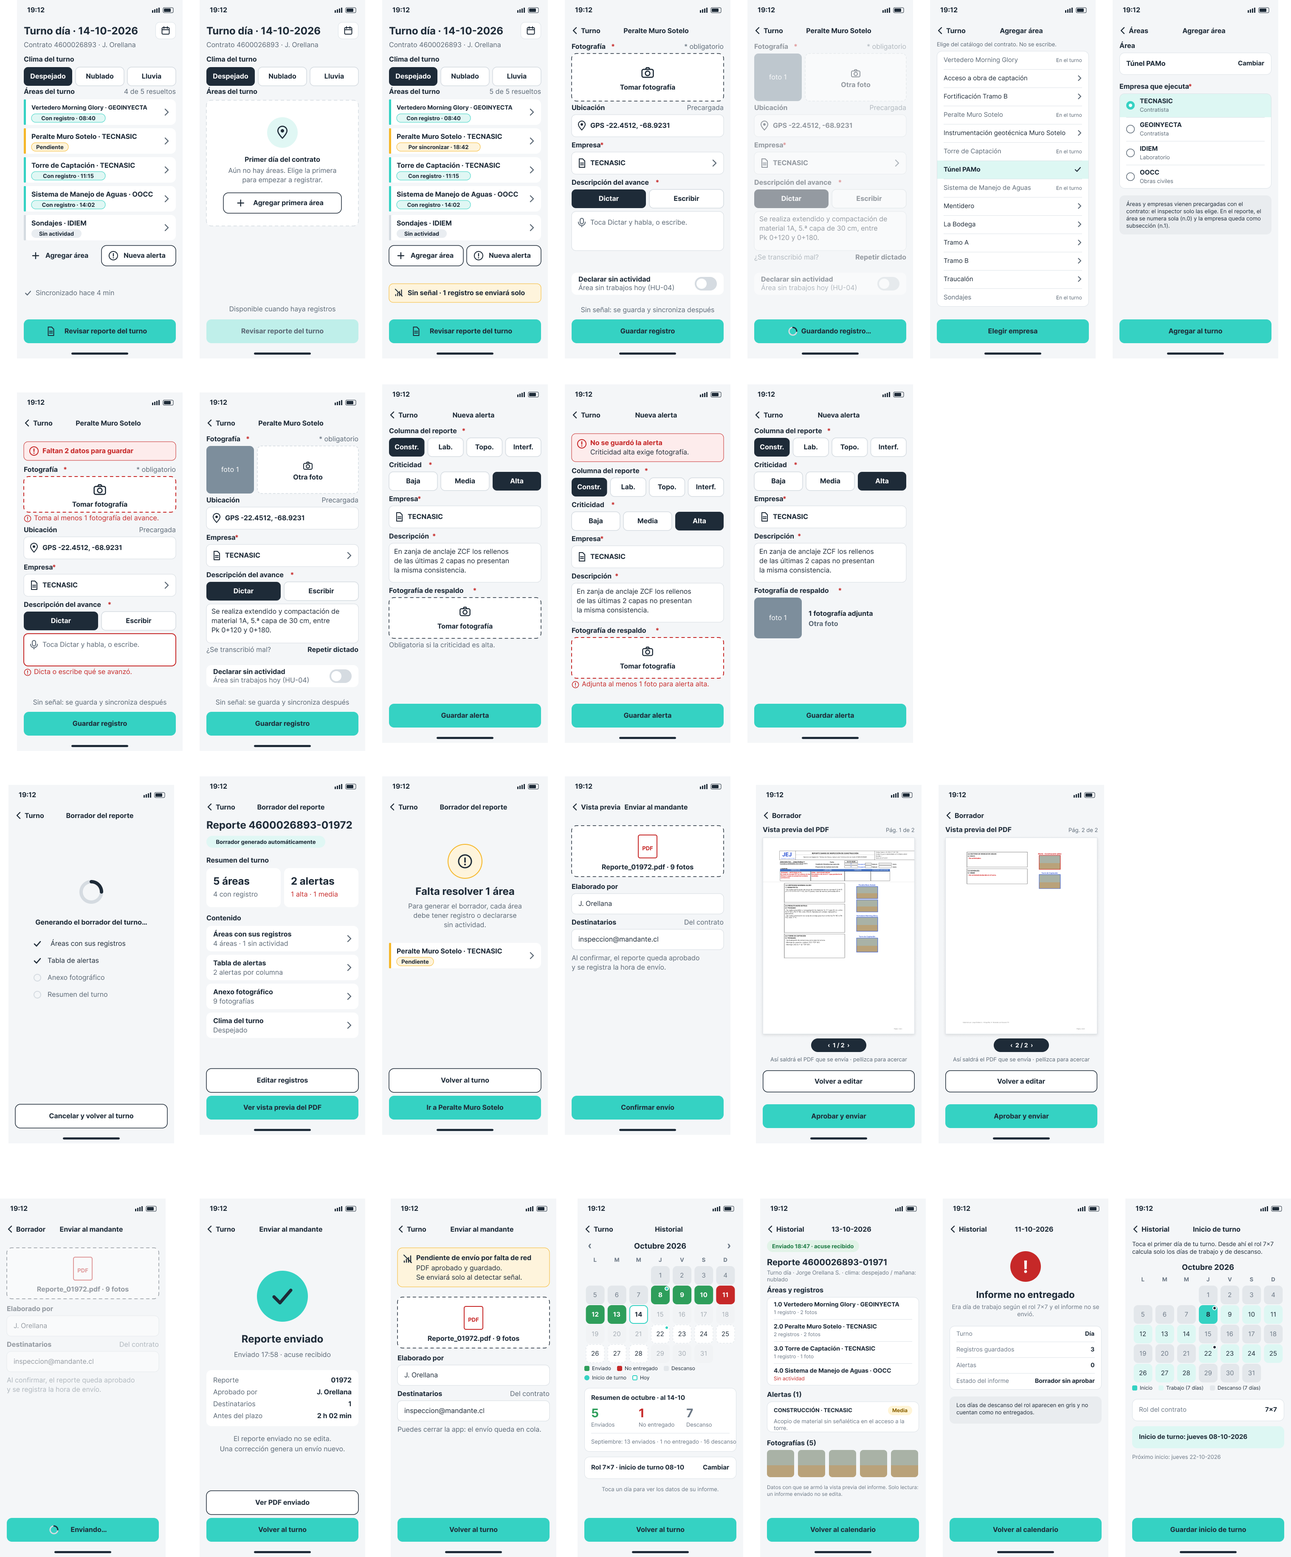
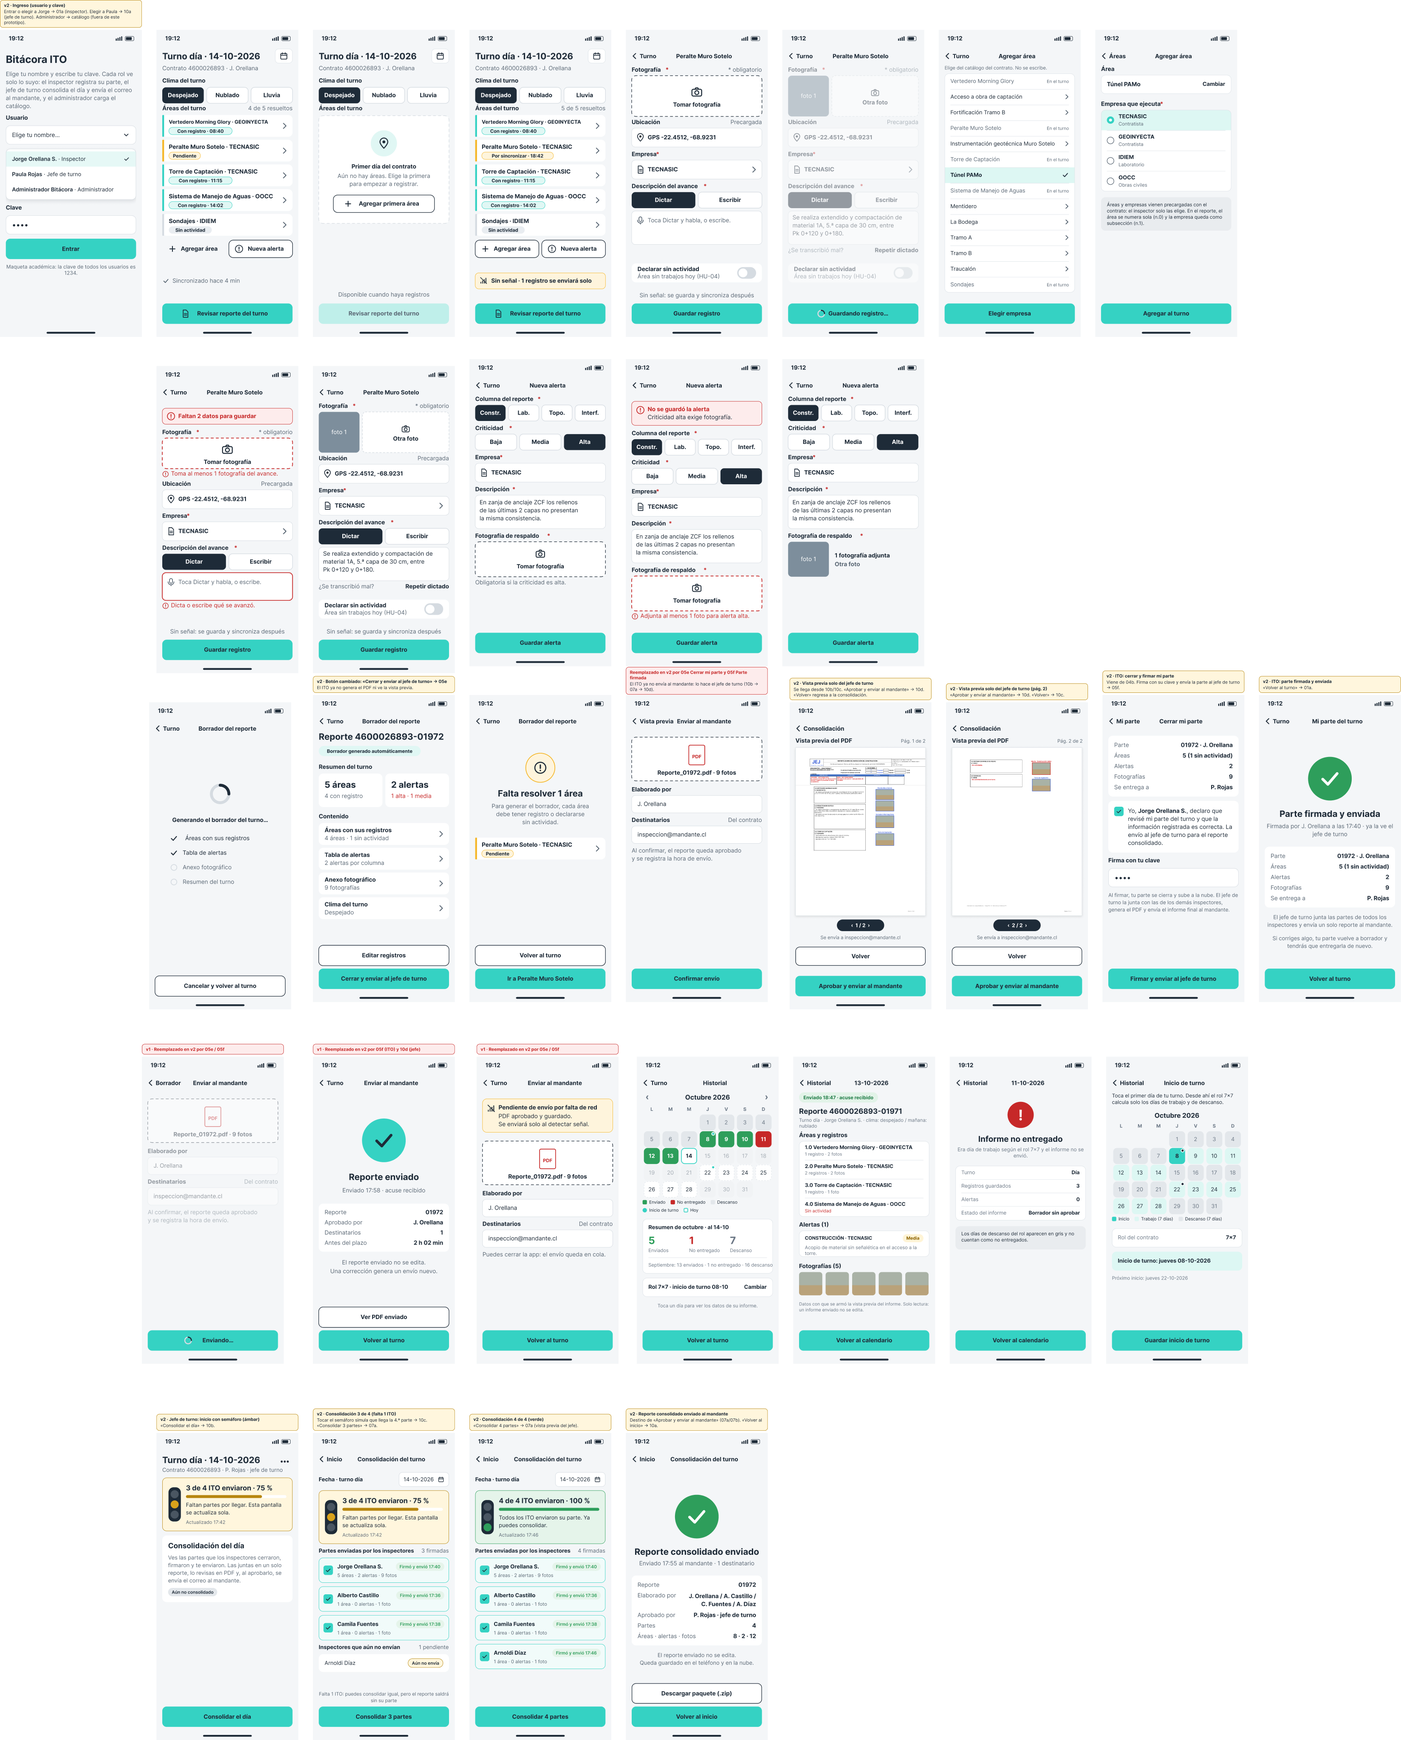
Semana 8: documentación y prototipo de Figma de la versión 2
- README y docs/README: estado de la semana 8 (hito entregado).
- Historias HU-11 a HU-15: ingreso con clave, firma del inspector, semáforo, consolidación y catálogo desde Excel.
- Estructura de datos: cambios de la semana 8 (entregado_en, firma, consolidado, catalogo_version) y reglas.
- Prototipo: sección 6 con las pantallas y decisiones; GUIA-FIGMA con los marcos nuevos 09a, 05e, 05f y 10a-10d.
- Vista general del prototipo actualizada.

diff --git a/docs/historias.md b/docs/historias.md
@@ -38,8 +38,13 @@ Las historias siguen la secuencia real de uso del turno, de la apertura del día
 | HU-04 | Declarar un frente sin actividad | Inspector | Alta |
 | HU-05 | Elegir un área del catálogo del contrato *(v2)* | Inspector | Media |
 | HU-06 | Revisar el borrador del reporte del turno | Inspector | Alta |
-| HU-09 | Previsualizar el PDF antes de aprobarlo *(nueva, v2)* | Inspector | Alta |
-| HU-07 | Emitir el reporte al mandante | Inspector | Alta |
+| HU-09 | Previsualizar el PDF antes de aprobarlo *(v2; desde la semana 8 lo hace el jefe de turno)* | Jefe de turno | Alta |
+| HU-07 | Emitir el reporte al mandante *(desde la semana 8 lo emite el jefe de turno, ver HU-14)* | Jefe de turno | Alta |
+| HU-11 | Ingresar con mi usuario y clave *(nueva, semana 8)* | Todos | Alta |
+| HU-12 | Cerrar y firmar mi parte del turno *(nueva, semana 8)* | Inspector | Alta |
+| HU-13 | Saber cuántos inspectores ya enviaron (semáforo) *(nueva, semana 8)* | Jefe de turno | Alta |
+| HU-14 | Consolidar las partes y enviar un solo reporte *(nueva, semana 8)* | Jefe de turno | Alta |
+| HU-15 | Mantener el catálogo del contrato desde un Excel *(nueva, semana 8)* | Administrador | Media |
 | HU-10 | Consultar mi historial en el calendario *(nueva, v2)* | Inspector | Media |
 | HU-08 | Consultar reportes anteriores | Jefatura | Baja |
 
@@ -414,3 +419,127 @@ Las historias siguen la secuencia real de uso del turno, de la apertura del día
 - **Dado** que ningún reporte coincide con la búsqueda,
 - **cuando** se ejecuta la consulta,
 - **entonces** el sistema lo indica y mantiene los filtros para corregirlos.
+
+---
+
+## Semana 8 · Consolidación por el jefe de turno
+
+Pedido del profesor guía: un turno tiene varios inspectores y el mandante recibe **un solo reporte**, que envía el jefe de turno. Tras probar la primera versión, el equipo pidió además que el inspector **firme** su parte, que el jefe vea **solo lo firmado**, un **semáforo** de avance, ingreso con clave y solo turno de día. Las historias HU-07 y HU-09 pasan al jefe de turno.
+
+## HU-11 · Ingresar con mi usuario y clave *(nueva, semana 8)*
+
+| | |
+|---|---|
+| **Rol** | Inspector, jefe de turno o administrador |
+| **Acción** | Elegir mi nombre de la lista de usuarios del contrato y escribir mi clave |
+| **Beneficio** | Ver solo lo que me corresponde y que lo registrado quede a mi nombre |
+
+**Escenario principal**
+
+- **Dado** que el administrador me cargó en el catálogo del contrato,
+- **cuando** elijo mi nombre en la lista, escribo mi clave y toco «Entrar»,
+- **entonces** la app abre la pantalla de mi rol: el inspector su turno, el jefe la consolidación y el administrador el catálogo, y no me deja abrir las pantallas de otro rol.
+
+**Escenario alternativo · clave incorrecta**
+
+- **Dado** que escribí mal la clave,
+- **cuando** toco «Entrar»,
+- **entonces** la app avisa «La clave no es correcta» y no entra.
+
+**Escenario alternativo · usuario recién agregado**
+
+- **Dado** que el administrador me agregó hoy en el Excel,
+- **cuando** abro la app con señal,
+- **entonces** la pantalla de ingreso descarga el catálogo nuevo y mi nombre aparece en la lista.
+
+> En la maqueta la clave es la misma para todos (1234). En producción se usaría Supabase Auth.
+
+## HU-12 · Cerrar y firmar mi parte del turno *(nueva, semana 8)*
+
+| | |
+|---|---|
+| **Rol** | Inspector de terreno |
+| **Acción** | Revisar mi parte, cerrarla y firmarla con mi clave para enviarla al jefe de turno |
+| **Beneficio** | Dejar constancia de que la información es mía y está correcta, sin tener que armar el reporte final |
+
+**Escenario principal**
+
+- **Dado** que todas mis áreas tienen registro o están declaradas sin actividad,
+- **cuando** toco «Cerrar y enviar al jefe de turno», marco la declaración y firmo con mi clave,
+- **entonces** mi parte queda firmada con mi nombre y la hora, sube a la nube y el jefe de turno la ve.
+
+**Escenario alternativo · sin firma**
+
+- **Dado** que registré pero no firmé,
+- **cuando** el jefe de turno revisa las partes,
+- **entonces** no ve ninguno de mis datos: solo que «Aún no envía».
+
+**Escenario alternativo · sin señal**
+
+- **Dado** que firmo sin señal,
+- **cuando** vuelve la conexión,
+- **entonces** la parte firmada se sube sola.
+
+## HU-13 · Saber cuántos inspectores ya enviaron *(nueva, semana 8)*
+
+| | |
+|---|---|
+| **Rol** | Jefe de turno |
+| **Acción** | Ver un semáforo con cuántos inspectores del día ya firmaron su parte |
+| **Beneficio** | No tener que revisar a cada rato si llegó todo, y consolidar en el momento justo |
+
+**Escenario principal**
+
+- **Dado** que hoy trabajan 4 inspectores y 3 ya firmaron,
+- **cuando** abro mi inicio o la consolidación,
+- **entonces** veo «3 de 4 ITO enviaron · 75 %» en ámbar, y la pantalla se actualiza sola.
+
+**Escenario · todos enviaron**
+
+- **Dado** que firma el último inspector,
+- **cuando** pasan a lo más 30 segundos,
+- **entonces** el semáforo pasa a verde (100 %), el teléfono vibra y la app indica que ya puedo consolidar.
+
+> El semáforo está en rojo si nadie ha enviado. Los inspectores en descanso según su rol 7x7 no cuentan.
+
+## HU-14 · Consolidar las partes y enviar un solo reporte *(nueva, semana 8)*
+
+| | |
+|---|---|
+| **Rol** | Jefe de turno |
+| **Acción** | Juntar las partes firmadas en un reporte, revisar el PDF y enviarlo al mandante |
+| **Beneficio** | Que el mandante reciba un único correo por turno con el trabajo de todos |
+
+**Escenario principal**
+
+- **Dado** que el semáforo está en verde,
+- **cuando** toco «Consolidar», reviso el clima y la vista previa del PDF, y toco «Aprobar y enviar al mandante»,
+- **entonces** el reporte junta las áreas de todos (1.0 el área, 1.1 la empresa), las alertas y «Elaborado por» con todos los inspectores, toma el correlativo siguiente del contrato y sale **un solo correo** a los destinatarios del contrato.
+
+**Escenario alternativo · falta un inspector**
+
+- **Dado** que el semáforo está en ámbar,
+- **cuando** toco «Consolidar»,
+- **entonces** la app advierte que el reporte saldrá sin las partes que faltan, y deja seguir si el jefe lo decide.
+
+## HU-15 · Mantener el catálogo del contrato desde un Excel *(nueva, semana 8)*
+
+| | |
+|---|---|
+| **Rol** | Administrador |
+| **Acción** | Llenar una plantilla Excel con el contrato, las áreas, las empresas, los usuarios y los destinatarios, y publicarla |
+| **Beneficio** | Cambiar el catálogo sin tocar el código, y que todos los teléfonos lo reciban |
+
+**Escenario principal**
+
+- **Dado** que descargué la plantilla y la llené,
+- **cuando** la cargo en la app y toco «Publicar catálogo»,
+- **entonces** la app valida el archivo, muestra qué cambia y publica una versión nueva. Los teléfonos la reciben al abrir la app.
+
+**Escenario alternativo · alguien deja de trabajar**
+
+- **Dado** que un inspector ya no está en el contrato,
+- **cuando** lo marco «Activo: No» y publico,
+- **entonces** queda inactivo, sin borrar lo que registró.
+
+> Publicar el Excel nunca hace retroceder el correlativo de los reportes ya enviados. El correo de los usuarios es opcional.

diff --git a/docs/prototipo.md b/docs/prototipo.md
@@ -207,3 +207,37 @@ Los estados también están en las otras pantallas donde importan: P1 vacío (01
 - Ícono de calendario arriba a la derecha en P1, que abre **08a**: el calendario del mes con cada día en verde (enviado), rojo (no entregado) o gris (descanso), más el resumen del mes y el del mes anterior.
 - La diferencia entre descanso y no entregado la da el **rol 7x7**. El inspector marca el **primer día de su turno** en **08d** y desde ahí se calculan los ciclos. Cada inicio de turno queda marcado con un punto en el calendario.
 - Al tocar un día enviado, **08b** muestra los datos con que se armó ese informe (los mismos de la vista previa), no el PDF. Al tocar un día rojo, **08c** muestra por qué cuenta como no entregado.
+
+## 6. Cambios de la semana 8
+
+**Pedido del profesor guía:** consolidar los reportes de varios inspectores y que el jefe de turno sea quien envía un solo reporte al mandante. Tras probar la primera versión, el equipo pidió además que el inspector **firme** su parte, que el jefe vea **solo lo firmado**, un **semáforo** de avance, ingreso con clave y solo turno de día. Los marcos nuevos ya están en el archivo de Figma.
+
+| Pantalla | Rol | Qué hace | Historia |
+|---|---|---|---|
+| 09a Ingreso | Todos | Lista de usuarios del contrato y clave. Cada rol abre solo sus pantallas | HU-11 |
+| 05e Cerrar mi parte (firma) | Inspector | Resumen de la parte, declaración y firma con la clave. **Reemplaza** la vista previa del PDF y el envío del inspector | HU-12 |
+| 05f Parte firmada y enviada | Inspector | Confirmación con nombre y hora de la firma | HU-12 |
+| 10a Inicio del jefe | Jefe de turno | Semáforo «N de M ITO enviaron» y acceso a «Consolidar el día» | HU-13 |
+| 10b / 10c Consolidación del día (ámbar y verde) | Jefe de turno | Semáforo, partes firmadas e inspectores que aún no envían. Consolida | HU-13, HU-14 |
+| Vista previa del PDF (07a/07b) | Jefe de turno | Ahora es del jefe: «Aprobar y enviar al mandante» | HU-09, HU-14 |
+| 10d Reporte consolidado enviado | Jefe de turno | Confirmación del único correo del turno | HU-14 |
+| Catálogo del contrato *(solo en la app)* | Administrador | Plantilla Excel: descargar, cargar, revisar cambios y publicar | HU-15 |
+
+**Flujo nuevo:** Ingreso → (inspector) turno → registrar → borrador → **Cerrar y enviar al jefe de turno** → firma → parte enviada. En paralelo: (jefe) inicio con semáforo → consolidación → **Consolidar** → revisión → vista previa del PDF → **Aprobar y enviar al mandante**.
+
+**Decisiones de la semana 8**
+
+- **El inspector ya no genera PDF.** El informe final es solo del jefe de turno. Así se evitan PDF parciales que nadie usa y el mandante recibe un solo documento.
+- **Firmar con la clave** deja constancia de quién valida la información, sin agregar otra contraseña. En producción sería la cuenta de Supabase Auth.
+- **El jefe no ve partes sin firmar**, aunque ya estén respaldadas en la nube. Así se respeta que el inspector decide cuándo su información está lista.
+- **Semáforo** en vez de una lista para revisar a mano: rojo, ámbar o verde, con actualización automática cada 30 segundos.
+- **Solo turno de día**, como en el contrato real del caso.
+
+**Validación:** un set de pruebas automáticas con datos inventados recorre todo el flujo:
+
+1. El administrador publica el Excel.
+2. Tres inspectores firman y uno no.
+3. El semáforo pasa de ámbar a verde.
+4. El jefe consolida y se envía el correo real.
+
+Resultado: 30 de 30 comprobaciones bien. Las pruebas encontraron 4 errores que se corrigieron antes de publicar.

diff --git a/docs/01-estructura-datos.md b/docs/01-estructura-datos.md
@@ -291,3 +291,24 @@ Los cambios que introdujo esa segunda etapa:
 | El reporte pasa a `generado` con la vista previa y a `aprobado` solo desde ella (regla 9) | Observación del profesor guía: el inspector debe revisar el PDF antes de enviarlo |
 | Se agregó `rol_turno` (7x7 y primer día de turno) | El historial debe distinguir los días de descanso de los informes no entregados |
 
+## 10. Cambios de la semana 8 (consolidación por el jefe de turno)
+
+Migración `supabase/migrations/0002_consolidacion_y_catalogo.sql`. Solo agrega: no borra ni cambia columnas existentes.
+
+| Cambio | Para qué |
+|---|---|
+| `usuario.rol`: `inspector`, `jefatura` (jefe de turno) o `admin` | El rol define qué pantallas ve cada persona al ingresar. |
+| `usuario.contrato_id` | Cada usuario pertenece al catálogo de un contrato. El correo del usuario es opcional. |
+| `reporte.entregado_en` | Hora en que el inspector **firmó y envió** su parte al jefe de turno. Si está vacío, el jefe no ve esa parte. |
+| `reporte.aprobado_por` y `reporte.hora_aprobacion` | Firma del inspector: quién firmó su parte y a qué hora. |
+| Tabla `consolidado` | El reporte único del día: contrato, fecha, turno, correlativo, partes incluidas, «elaborado por», ruta del PDF y estado (`borrador`, `generado`, `aprobado`, `enviado`). Lo crea el jefe de turno. |
+| Tabla `catalogo_version` | Cada publicación del Excel del administrador: número de versión, quién la cargó y el resumen de cambios. Los teléfonos comparan su versión con esta. |
+
+**Reglas nuevas**
+
+1. Hay un reporte por inspector, contrato y día. Si dos inspectores comparten teléfono, cada uno tiene el suyo.
+2. El jefe de turno solo lee partes con `entregado_en` lleno: lo no firmado no sale del teléfono hacia su pantalla. Igual se respalda en la nube.
+3. El semáforo cuenta a los inspectores activos del contrato que trabajan ese día según su `rol_turno` (7x7) y cuántos de ellos firmaron.
+4. El correlativo del consolidado es `contrato.ultimo_correlativo + 1`. Nunca retrocede: si el administrador publica un Excel con un número menor, se conserva el de la nube.
+5. Solo turno de día.
+6. Publicar el catálogo no borra nada. Lo que ya no va queda como no vigente o inactivo.

diff --git a/README.md b/README.md
@@ -35,13 +35,15 @@ El tipo de solución dominante es la **automatización**, sostenida por una capa
 
 ## Estado actual
 
-**Semana 6: prototipo navegable v2.** El prototipo incorpora las dos observaciones del profesor guía:
+**Semana 8: consolidación por el jefe de turno (versión 2, aprobada y publicada en Vercel).** Pedido del profesor guía: varios inspectores por turno y un solo reporte al mandante, enviado por el jefe de turno.
 
-- las áreas se eligen de una lista y el inspector no las escribe;
-- el PDF se previsualiza antes de aprobarlo y enviarlo.
+- Cada persona entra con su nombre y clave, y solo ve lo de su rol: inspector, jefe de turno o administrador.
+- El inspector registra en terreno, **cierra su parte y la firma**. No genera PDF.
+- El jefe de turno ve solo las partes firmadas y sigue un **semáforo** («3 de 4 ITO enviaron»). Con el semáforo en verde consolida, genera el PDF y envía **un solo correo** al mandante.
+- El administrador mantiene el catálogo del contrato (áreas, empresas, usuarios y destinatarios) desde una **plantilla Excel**.
+- Solo turno de día. El detalle está en [docs/prototipo.md](docs/prototipo.md#6-cambios-de-la-semana-8) y las historias en [docs/historias.md](docs/historias.md).
 
-Además suma un **Historial** con calendario y rol de turnos 7x7. El detalle está en [docs/prototipo.md](docs/prototipo.md#5-cambios-de-la-versión-2). El ambiente de desarrollo quedó configurado en la semana 3. Todavía no hay código de aplicación.
-
+La aplicación está publicada en Vercel y se genera también como APK para Android.
 | Hito | Semana | Estado |
 |---|---|---|
 | Propuesta de valor, alcance, usuarios (Avance 1) | 1 | Entregado |
@@ -51,7 +53,7 @@ Además suma un **Historial** con calendario y rol de turnos 7x7. El detalle est
 | Prototipo navegable (Avance 5) | 5 | Entregado |
 | Prototipo v2: observaciones del profesor e Historial | 6 | Entregado |
 | Análisis ético, de sostenibilidad e impacto | 7 | Entregado |
-| PoC del flujo principal | 8 | Pendiente |
+| Consolidación por el jefe de turno, firma del inspector y semáforo (PoC del flujo principal) | 8 | Entregado |
 | MVP validado con inspectores | 12 | Pendiente |
 
 ## Stack tecnológico

diff --git a/GUIA-FIGMA.md b/GUIA-FIGMA.md
@@ -148,3 +148,26 @@ El apunte pide que los estados estén «señalados en la anotación». Al lado d
 - [ ] Mapa de navegación y registro de decisiones en `docs/prototipo.md`
 - [ ] `README.md` enlaza a `docs/prototipo.md`
 - [ ] Enlace de Figma pegado y abierto en una ventana privada para confirmar que se ve sin iniciar sesión
+
+## Semana 8 · versión 2 (ya aplicada en Figma)
+
+Siete marcos nuevos y tres modificados. No se borró ningún marco: los que quedaron obsoletos llevan encima una nota «Reemplazado en v2 por…». Las notas amarillas «v2 · …» marcan lo nuevo.
+
+| Marco | Qué muestra | Lleva a |
+|---|---|---|
+| **09a Ingreso · usuario y clave** | Lista de usuarios con su rol, clave y «Entrar» | Inspector → 01a · Jefe → 10a |
+| **04b Borrador** *(modificado)* | El botón ahora dice «Cerrar y enviar al jefe de turno» | 05e |
+| **05e Cerrar mi parte · firma** | Resumen de la parte, declaración y «Firma con tu clave» | «Firmar y enviar» → 05f · volver → 04b |
+| **05f Parte firmada y enviada** | Confirmación con nombre y hora | 01a |
+| **10a Inicio jefe de turno · semáforo ámbar** | «3 de 4 ITO enviaron · 75 %» y «Consolidar el día» | 10b |
+| **10b Consolidación · 3 de 4 ámbar** | Partes firmadas, «Aún no envía» y aviso de parte faltante | «Consolidar 3 partes» → 07a · tocar el semáforo → 10c (simula que llega la cuarta) |
+| **10c Consolidación · 4 de 4 verde** | Semáforo en verde, todas las partes | «Consolidar 4 partes» → 07a |
+| **07a / 07b Vista previa del PDF** *(modificados)* | Ahora es del jefe: «Aprobar y enviar al mandante» | 10d · «Volver» → consolidación |
+| **10d Reporte consolidado enviado** | Confirmación del único correo del turno | 10a |
+| **05a Enviar al mandante** *(obsoleto)* | Con la nota «Reemplazado en v2 por 05e y 05f» | — |
+
+**Flujos de inicio nuevos:** «Ingreso» (09a) y «Jefe de turno» (10a). Se mantienen los cinco anteriores.
+
+**Pendiente menor:**
+- El catálogo del administrador y la pantalla de Ajustes («Cerrar sesión») están en la app pero no en Figma.
+- El PDF dibujado en 07a/07b todavía dice «Elaborado por: Jorge Orellana S.».

diff --git a/docs/README.md b/docs/README.md
@@ -35,8 +35,15 @@ El tipo de solución dominante es la **automatización**, sostenida por una capa
 
 ## Estado actual
 
-**Semana 7: análisis ético, de sostenibilidad e impacto.** El análisis está en [docs/etica.md](docs/etica.md): mapa de impacto, ficha de datos personales, accesibilidad y matriz de riesgos. La aplicación ya tiene código: está publicada en Vercel y se genera también como APK para Android.
+**Semana 8: consolidación por el jefe de turno (versión 2, aprobada y publicada en Vercel).** Pedido del profesor guía: varios inspectores por turno y un solo reporte al mandante, enviado por el jefe de turno.
 
+- Cada persona entra con su nombre y clave, y solo ve lo de su rol: inspector, jefe de turno o administrador.
+- El inspector registra en terreno, **cierra su parte y la firma**. No genera PDF.
+- El jefe de turno ve solo las partes firmadas y sigue un **semáforo** («3 de 4 ITO enviaron»). Con el semáforo en verde consolida, genera el PDF y envía **un solo correo** al mandante.
+- El administrador mantiene el catálogo del contrato (áreas, empresas, usuarios y destinatarios) desde una **plantilla Excel**.
+- Solo turno de día. El detalle está en [docs/prototipo.md](docs/prototipo.md#6-cambios-de-la-semana-8) y las historias en [docs/historias.md](docs/historias.md).
+
+La aplicación está publicada en Vercel y se genera también como APK para Android.
 | Hito | Semana | Estado |
 |---|---|---|
 | Propuesta de valor, alcance, usuarios (Avance 1) | 1 | Entregado |
@@ -46,7 +53,7 @@ El tipo de solución dominante es la **automatización**, sostenida por una capa
 | Prototipo navegable (Avance 5) | 5 | Entregado |
 | Prototipo v2: observaciones del profesor e Historial | 6 | Entregado |
 | Análisis ético, de sostenibilidad e impacto | 7 | Entregado |
-| PoC del flujo principal | 8 | Pendiente |
+| Consolidación por el jefe de turno, firma del inspector y semáforo (PoC del flujo principal) | 8 | Entregado |
 | MVP validado con inspectores | 12 | Pendiente |
 
 ## Stack tecnológico
